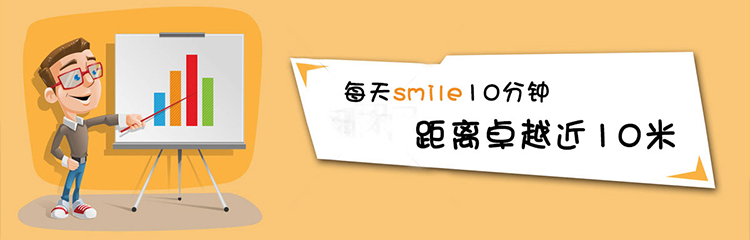
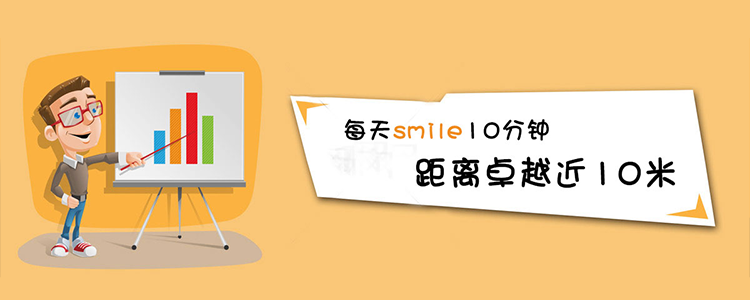
管理端个人端 图片修改

Changed region(s): [[0.0, 0.0, 0.368, 0.9625], [0.368, 0.2042, 0.9507, 0.6417], [0.3987, 0.6417, 0.9813, 0.8167]]

diff --git a/frontend/enterprise/src/src/views/course/create.vue b/frontend/enterprise/src/src/views/course/create.vue
@@ -184,7 +184,7 @@
           <my-upload @input="closeIcon" :no-rotate=false field="file" @crop-success="cropIconSuccess" @crop-upload-success="cropIconUploadSuccess" @crop-upload-fail="cropIconUploadFail" :url="uploadIconUrl" :width="190" :headers="headers" :height="144" :value.sync="showIcon" :no-circle=true img-format="png">
           </my-upload>
 
-          <my-upload @input="closeBanner" :no-rotate=false field="file" @crop-success="cropBannerSuccess" @crop-upload-success="cropBannerUploadSuccess" @crop-upload-fail="cropBannerUploadFail" :url="uploadBannerUrl" :width="375" :headers="headers" :height="120" :value.sync="showBanner" :no-circle=true img-format="png">
+          <my-upload @input="closeBanner" :no-rotate=false field="file" @crop-success="cropBannerSuccess" @crop-upload-success="cropBannerUploadSuccess" @crop-upload-fail="cropBannerUploadFail" :url="uploadBannerUrl" :width="375" :headers="headers" :height="150" :value.sync="showBanner" :no-circle=true img-format="png">
           </my-upload>
         </div>
       </section>

diff --git a/frontend/enterprise/src/src/views/course/edit.vue b/frontend/enterprise/src/src/views/course/edit.vue
@@ -182,7 +182,7 @@
           <my-upload @input="closeIcon" field="file" @crop-success="cropIconSuccess" @crop-upload-success="cropIconUploadSuccess" @crop-upload-fail="cropIconUploadFail" :url="uploadIconUrl" :width="190" :headers="headers" :height="144" :value.sync="showIcon" :no-circle=true img-format="png">
           </my-upload>
 
-          <my-upload @input="closeBanner" field="file" @crop-success="cropBannerSuccess" @crop-upload-success="cropBannerUploadSuccess" @crop-upload-fail="cropBannerUploadFail" :url="uploadBannerUrl" :width="375" :headers="headers" :height="120" :value.sync="showBanner" :no-circle=true img-format="png">
+          <my-upload @input="closeBanner" field="file" @crop-success="cropBannerSuccess" @crop-upload-success="cropBannerUploadSuccess" @crop-upload-fail="cropBannerUploadFail" :url="uploadBannerUrl" :width="375" :headers="headers" :height="150" :value.sync="showBanner" :no-circle=true img-format="png">
           </my-upload>
         </div>
       </section>

diff --git a/frontend/enterprise/src/src/views/exam/create.vue b/frontend/enterprise/src/src/views/exam/create.vue
@@ -230,7 +230,7 @@
           <my-upload @input="closeIcon" field="file" @crop-success="cropIconSuccess" @crop-upload-success="cropIconUploadSuccess" @crop-upload-fail="cropIconUploadFail" :url="uploadIconUrl" :width="190" :headers="headers" :height="144" :value.sync="showIcon" :no-circle=true img-format="png">
           </my-upload>
 
-          <my-upload @input="closeBanner" field="file" @crop-success="cropBannerSuccess" @crop-upload-success="cropBannerUploadSuccess" @crop-upload-fail="cropBannerUploadFail" :url="uploadBannerUrl" :width="375" :headers="headers" :height="120" :value.sync="showBanner" :no-circle=true img-format="png">
+          <my-upload @input="closeBanner" field="file" @crop-success="cropBannerSuccess" @crop-upload-success="cropBannerUploadSuccess" @crop-upload-fail="cropBannerUploadFail" :url="uploadBannerUrl" :width="375" :headers="headers" :height="150" :value.sync="showBanner" :no-circle=true img-format="png">
           </my-upload>
         </div>
       </section>

diff --git a/frontend/enterprise/src/src/views/exam/edit.vue b/frontend/enterprise/src/src/views/exam/edit.vue
@@ -243,7 +243,7 @@
           <my-upload @input="closeIcon" field="file" @crop-success="cropIconSuccess" @crop-upload-success="cropIconUploadSuccess" @crop-upload-fail="cropIconUploadFail" :url="uploadIconUrl" :width="190" :headers="headers" :height="144" :value.sync="showIcon" :no-circle=true img-format="png">
           </my-upload>
 
-          <my-upload @input="closeBanner" field="file" @crop-success="cropBannerSuccess" @crop-upload-success="cropBannerUploadSuccess" @crop-upload-fail="cropBannerUploadFail" :url="uploadBannerUrl" :width="375" :headers="headers" :height="120" :value.sync="showBanner" :no-circle=true img-format="png">
+          <my-upload @input="closeBanner" field="file" @crop-success="cropBannerSuccess" @crop-upload-success="cropBannerUploadSuccess" @crop-upload-fail="cropBannerUploadFail" :url="uploadBannerUrl" :width="375" :headers="headers" :height="150" :value.sync="showBanner" :no-circle=true img-format="png">
           </my-upload>
         </div>
       </section>

diff --git a/frontend/enterprise/src/src/views/information/edit.vue b/frontend/enterprise/src/src/views/information/edit.vue
@@ -78,9 +78,9 @@
       @crop-upload-success="cropIconUploadSuccess"
       @crop-upload-fail="cropIconUploadFail"
       :url="uploadUrl"
-      :width="280"
+      :width="95"
       :headers="headers"
-      :height="194"
+      :height="72"
       :value.sync="showIcon"
       :no-circle=true
       img-format="png">

diff --git a/frontend/client/src/src/assets/css/style.css b/frontend/client/src/src/assets/css/style.css
@@ -46,7 +46,7 @@ header .logo_c a img {
 }
 
 header .logo_c a .logo1 {
-  width: 1.1rem;
+  width: 0.9rem;
 }
 
 header .search_c {
@@ -663,7 +663,7 @@ section .form_list input:hover {
 /*课程详情页*/
 .course_banner img {
   width: 100%;
-  height: 2.6rem;
+  height: 3rem;
   overflow-y: hidden;
 }
 

diff --git a/frontend/enterprise/src/src/views/registration/edit.vue b/frontend/enterprise/src/src/views/registration/edit.vue
@@ -179,7 +179,7 @@
             :url="uploadUrl"
             :width="375"
             :headers="headers"
-            :height="120"
+            :height="150"
             :value.sync="showBanner"
             :no-circle=true
             img-format="png">

diff --git a/frontend/enterprise/src/src/views/registration/add.vue b/frontend/enterprise/src/src/views/registration/add.vue
@@ -196,7 +196,7 @@
           :url="uploadUrl"
           :width="375"
           :headers="headers"
-          :height="120"
+          :height="150"
           :value.sync="showBanner"
           :no-circle=true
           img-format="png">
